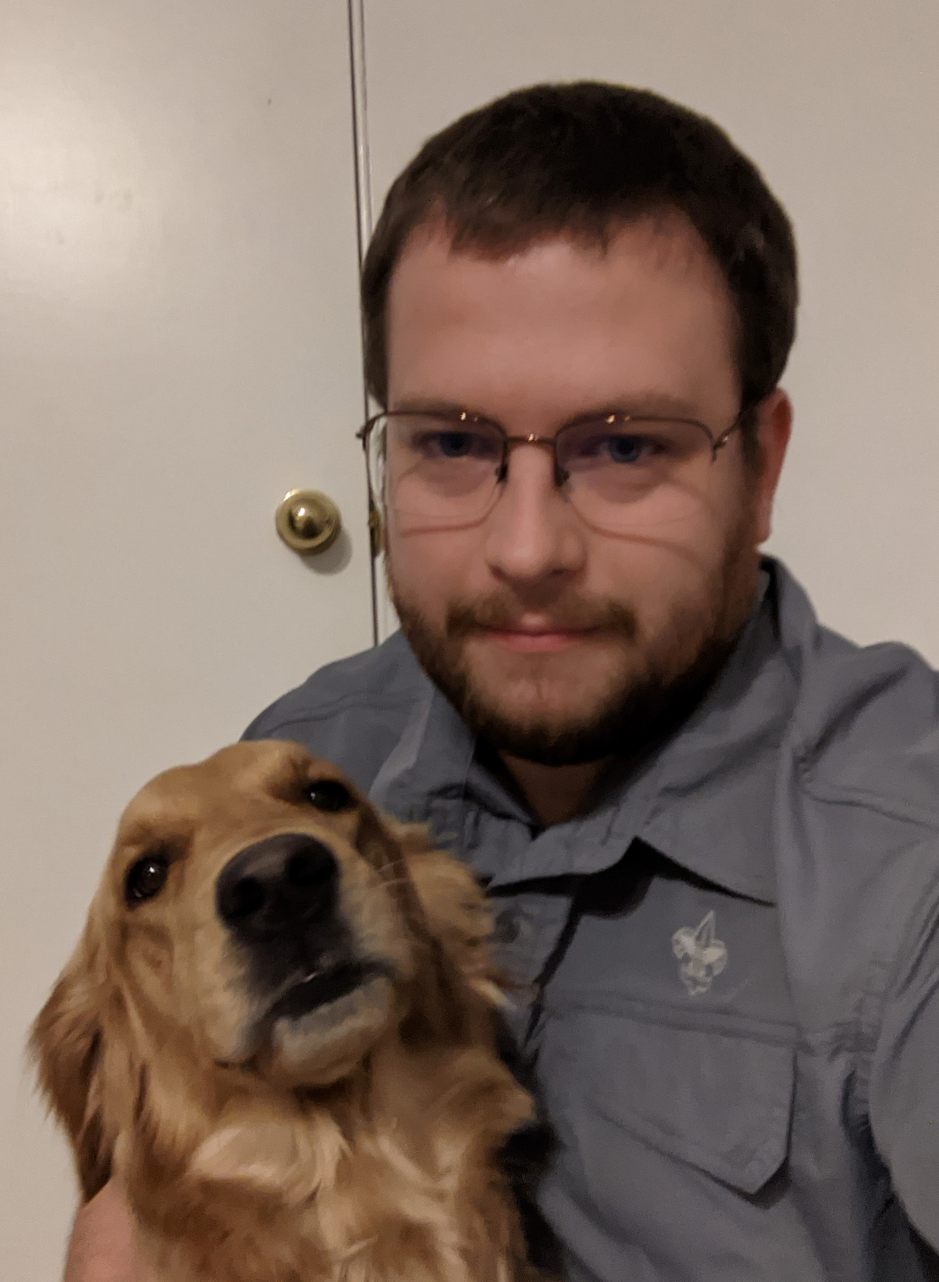
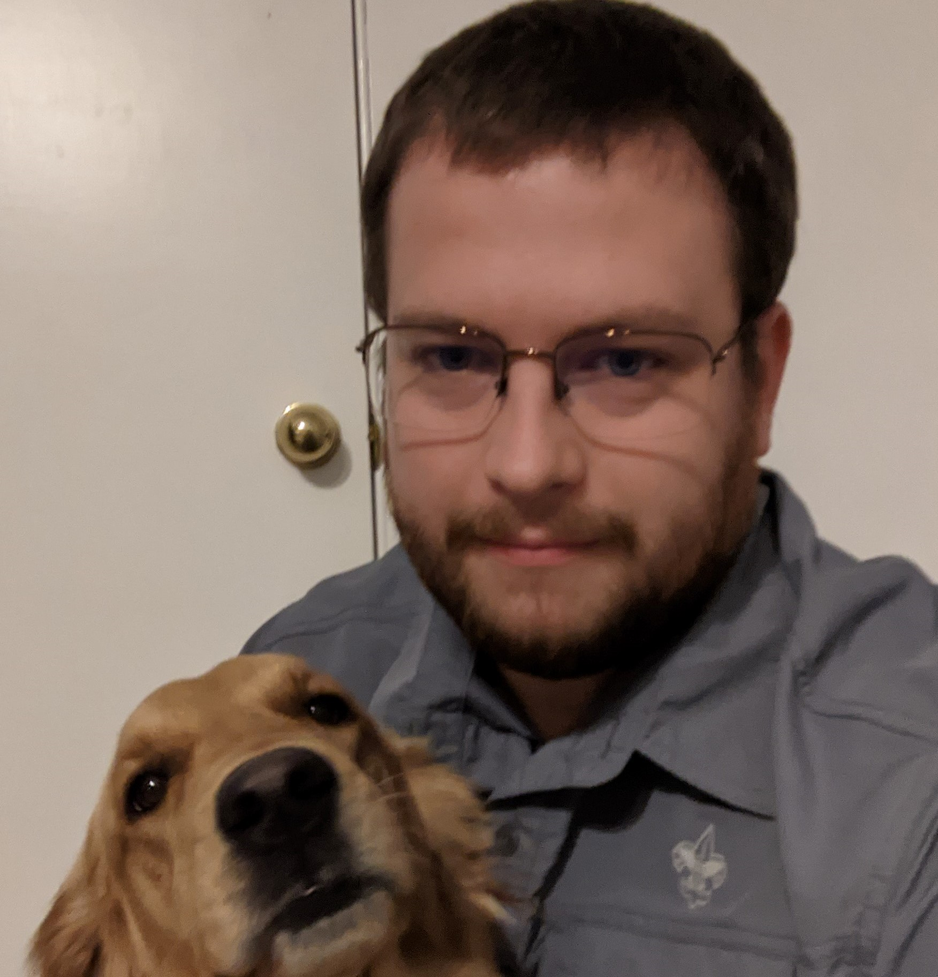
"better photo, and spacing"

diff --git a/index.html b/index.html
@@ -73,7 +73,6 @@
         </div>
       </div>
     </nav>
-    
 
     <!---End Naviation Bar-->
     <div class="particles-canvas" id="tsparticles">
@@ -89,12 +88,12 @@
             <div class="card">
               <img
                 src="img/profile.jpg"
-                class="card-img-top rounded-circle"
+                class="card-img-top rounded-circle border-none"
                 id="profileImage"
                 name="profileImage"
               />
 
-              <h5
+              <h3
                 class="card-title align-self-center"
                 id="tagline"
                 name="tagline"
@@ -107,7 +106,8 @@
             class="col-lg-8 col-md-8 col-sm-12 align-self-center"
             id="description"
           >
-            <h2>Hi! I'm Daniel Hemphill. I build websites that last.</h2>
+            <h2>Hi! I'm Daniel Hemphill. I build websites that last.</h2><br/>
+          
             <p>
               I'm a web developber based in Olathe, Kansas. I'm currently in a
               coding bootcamp focused on Boostrap, REACT, and NodeJS frameworks.
